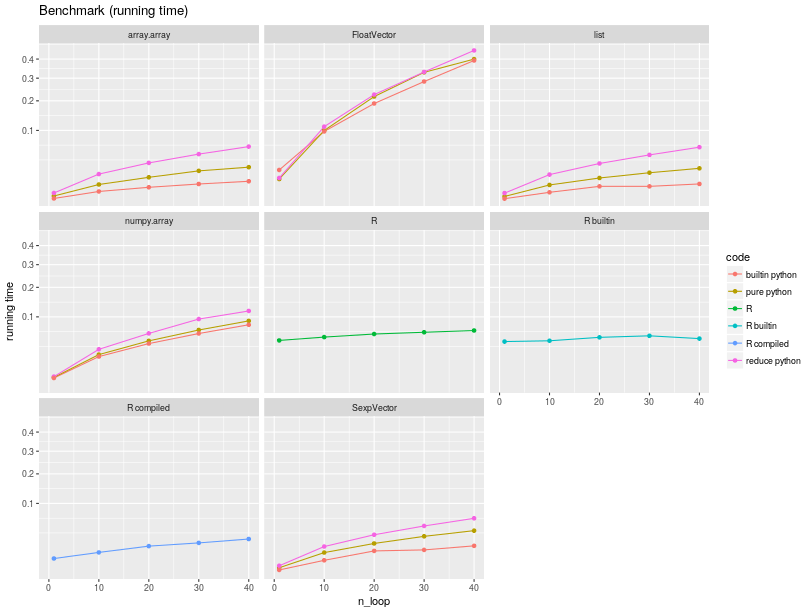
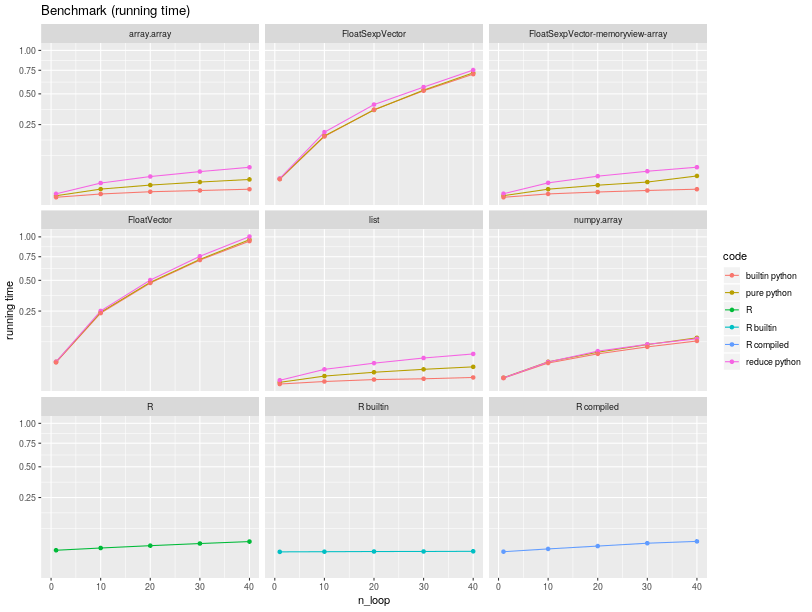
Update the doc about performances.

diff --git a/doc/latest/html/performances.html b/doc/latest/html/performances.html
@@ -82,16 +82,36 @@ the fastest, most memory efficient, and most versatile Python-to-R bridge.</p>
 </div>
 <div class="section" id="low-level-interface">
 <h3>Low-level interface<a class="headerlink" href="#low-level-interface" title="Permalink to this headline">¶</a></h3>
-<p>The high-level layer <a class="reference internal" href="robjects.html#module-rpy2.robjects" title="rpy2.robjects: High-level interface with R (Unix, Windows)"><code class="xref py py-mod docutils literal notranslate"><span class="pre">rpy2.robjects</span></code></a> brings a lot of convenience, such a class mappings and interfaces, but obviously
-with a cost in term of performances. This cost is neglibible for common usage, but compute-intensive programms traversing the
-Python-to-R bridge way and back a very large number of time will notice it.</p>
-<p>For those cases, the <a class="reference internal" href="rinterface.html#module-rpy2.rinterface" title="rpy2.rinterface: Low-level interface with R (Unix, Windows)"><code class="xref py py-mod docutils literal notranslate"><span class="pre">rpy2.rinterface</span></code></a> low-level layer gets the programmer closer to R’s C-level interface, bring rpy2
-faster than R code itself, as shown below.</p>
+<p>The high-level layer <a class="reference internal" href="robjects.html#module-rpy2.robjects" title="rpy2.robjects: High-level interface with R (Unix, Windows)"><code class="xref py py-mod docutils literal notranslate"><span class="pre">rpy2.robjects</span></code></a> brings a lot of convenience, such a class
+mappings and interfaces, but obviously with a cost in term of performances. This cost is
+believe to be neglibible for common use cases (calling calling complex R code in libraries
+with no Python alternative or with comparable level of maturity), but compute-intensive
+programms traversing the Python-to-R bridge way and back a very large number of time will
+notice it.</p>
+<p>The <a class="reference internal" href="rinterface.html#module-rpy2.rinterface" title="rpy2.rinterface: Low-level interface with R (Unix, Windows)"><code class="xref py py-mod docutils literal notranslate"><span class="pre">rpy2.rinterface</span></code></a> low-level layer gets the programmer closer to R’s C-level
+interface, but when interfacing with R using <code class="xref py py-mod docutils literal notranslate"><span class="pre">cffi</span></code>’s ABI mode this does not translate
+into immediate noticeable speed gains. However, having code for the <a class="reference internal" href="rinterface.html#module-rpy2.rinterface" title="rpy2.rinterface: Low-level interface with R (Unix, Windows)"><code class="xref py py-mod docutils literal notranslate"><span class="pre">rpy2.rinterface</span></code></a>
+interface means that translation to C is relatively easy to achieve, and <code class="xref py py-mod docutils literal notranslate"><span class="pre">cffi</span></code>’s API
+mode can be then used.</p>
+<div class="admonition note">
+<p class="first admonition-title">Note</p>
+<p>General speed improvement strategies for Python will apply. For example <code class="xref py py-mod docutils literal notranslate"><span class="pre">cython</span></code>
+can compile to C Python-like code with type declarations or pypy can be used as
+an alternative implemenation of Python.</p>
+<p class="last">When the compute-intensive shuttling across Python and R is mainly about Python accessing
+data in R data structures, a memoryview (available as
+<code class="xref py py-meth docutils literal notranslate"><span class="pre">rpy2.rinterface.BoolSexpVector.memoryview()</span></code>,
+<code class="xref py py-meth docutils literal notranslate"><span class="pre">rpy2.rinterface.FloatSexpVector.memoryview()</span></code>, or
+<code class="xref py py-meth docutils literal notranslate"><span class="pre">rpy2.rinterface.IntSexpVector.memoryview()</span></code>) will provide access to the memory
+region in the embedded R where data for an array is stored. The numpy array interface
+as <code class="xref py py-attr docutils literal notranslate"><span class="pre">rpy2.rinterface.NumpyArrayInterface.__array_interface__</span></code> for the same
+vector objects.</p>
 </div>
 </div>
-<div class="section" id="a-simple-benchmark">
-<h2>A simple benchmark<a class="headerlink" href="#a-simple-benchmark" title="Permalink to this headline">¶</a></h2>
-<p>As a simple benchmark, we took a function that would sum
+</div>
+<div class="section" id="a-naive-benchmark">
+<h2>A naive benchmark<a class="headerlink" href="#a-naive-benchmark" title="Permalink to this headline">¶</a></h2>
+<p>As a naive benchmark, we took a function that would sum
 up all elements in a numerical vector.</p>
 <p>In pure R, the code is like:</p>
 <div class="highlight-r notranslate"><div class="highlight"><pre><span></span><span class="kr">function</span><span class="p">(</span>x<span class="p">)</span>
@@ -111,7 +131,8 @@ up all elements in a numerical vector.</p>
     <span class="k">return</span> <span class="n">total</span>
 </pre></div>
 </div>
-<p>R has obviously a vectorized function <cite>sum()</cite> calling underlying C code, but the purpose of the benchmark
+<p>R has obviously a vectorized function <cite>sum()</cite> calling underlying C code, but the purpose of
+the benchmark
 is to measure the running time of pure R code.</p>
 <p>We ran this function over different types of sequences (of the same length)</p>
 <div class="highlight-default notranslate"><div class="highlight"><pre><span></span>    <span class="n">n</span> <span class="o">=</span> <span class="mi">20000</span>
@@ -126,15 +147,21 @@ is to measure the running time of pure R code.</p>
     <span class="k">elif</span> <span class="n">kind</span> <span class="o">==</span> <span class="s2">&quot;FloatVector&quot;</span><span class="p">:</span>
         <span class="kn">import</span> <span class="nn">rpy2.robjects</span> <span class="k">as</span> <span class="nn">module</span>
         <span class="n">res</span> <span class="o">=</span> <span class="n">module</span><span class="o">.</span><span class="n">FloatVector</span><span class="p">(</span><span class="n">x_list</span><span class="p">)</span>
-    <span class="k">elif</span> <span class="n">kind</span> <span class="o">==</span> <span class="s2">&quot;SexpVector&quot;</span><span class="p">:</span>
+    <span class="k">elif</span> <span class="n">kind</span> <span class="o">==</span> <span class="s2">&quot;FloatSexpVector&quot;</span><span class="p">:</span>
         <span class="kn">import</span> <span class="nn">rpy2.rinterface</span> <span class="k">as</span> <span class="nn">module</span>
         <span class="n">module</span><span class="o">.</span><span class="n">initr</span><span class="p">()</span>
-        <span class="n">res</span> <span class="o">=</span> <span class="n">module</span><span class="o">.</span><span class="n">IntSexpVector</span><span class="p">(</span><span class="n">x_list</span><span class="p">)</span>
+        <span class="n">res</span> <span class="o">=</span> <span class="n">module</span><span class="o">.</span><span class="n">FloatSexpVector</span><span class="p">(</span><span class="n">x_list</span><span class="p">)</span>
+    <span class="k">elif</span> <span class="n">kind</span> <span class="o">==</span> <span class="s2">&quot;FloatSexpVector-memoryview-array&quot;</span><span class="p">:</span>
+        <span class="kn">import</span> <span class="nn">rpy2.rinterface</span> <span class="k">as</span> <span class="nn">module</span>
+        <span class="n">module</span><span class="o">.</span><span class="n">initr</span><span class="p">()</span>
+        <span class="n">tmp</span> <span class="o">=</span> <span class="n">module</span><span class="o">.</span><span class="n">FloatSexpVector</span><span class="p">(</span><span class="n">x_list</span><span class="p">)</span>
+        <span class="n">mv</span> <span class="o">=</span> <span class="n">tmp</span><span class="o">.</span><span class="n">memoryview</span><span class="p">()</span>
+        <span class="n">res</span> <span class="o">=</span> <span class="n">array</span><span class="o">.</span><span class="n">array</span><span class="p">(</span><span class="n">mv</span><span class="o">.</span><span class="n">format</span><span class="p">,</span> <span class="n">mv</span><span class="p">)</span>
     <span class="k">elif</span> <span class="n">kind</span> <span class="o">==</span> <span class="s2">&quot;list&quot;</span><span class="p">:</span>
         <span class="n">res</span> <span class="o">=</span> <span class="n">x_list</span>
     <span class="k">elif</span> <span class="n">kind</span> <span class="o">==</span> <span class="s2">&quot;R&quot;</span><span class="p">:</span>
         <span class="kn">import</span> <span class="nn">rpy2.robjects</span> <span class="k">as</span> <span class="nn">module</span>
-        <span class="n">res</span> <span class="o">=</span> <span class="n">module</span><span class="o">.</span><span class="n">rinterface</span><span class="o">.</span><span class="n">IntSexpVector</span><span class="p">(</span><span class="n">x_list</span><span class="p">)</span>
+        <span class="n">res</span> <span class="o">=</span> <span class="n">module</span><span class="o">.</span><span class="n">rinterface</span><span class="o">.</span><span class="n">FloatSexpVector</span><span class="p">(</span><span class="n">x_list</span><span class="p">)</span>
         <span class="n">module</span><span class="o">.</span><span class="n">globalenv</span><span class="p">[</span><span class="s1">&#39;x&#39;</span><span class="p">]</span> <span class="o">=</span> <span class="n">res</span>
         <span class="n">res</span> <span class="o">=</span> <span class="kc">None</span>
 </pre></div>
@@ -162,51 +189,59 @@ code runs.</p>
 <tbody valign="top">
 <tr class="row-even"><td>builtin python</td>
 <td>array.array</td>
-<td>2.17</td>
+<td>5.01</td>
+</tr>
+<tr class="row-odd"><td>builtin python</td>
+<td>FloatSexpVector</td>
+<td>0.03</td>
+</tr>
+<tr class="row-even"><td>builtin python</td>
+<td>FloatSexpVector-memoryview-array</td>
+<td>5.01</td>
 </tr>
 <tr class="row-odd"><td>builtin python</td>
 <td>FloatVector</td>
-<td>0.04</td>
+<td>0.02</td>
 </tr>
 <tr class="row-even"><td>builtin python</td>
 <td>list</td>
-<td>2.90</td>
+<td>7.71</td>
 </tr>
 <tr class="row-odd"><td>builtin python</td>
 <td>numpy.array</td>
 <td>0.23</td>
 </tr>
-<tr class="row-even"><td>builtin python</td>
-<td>SexpVector</td>
-<td>1.26</td>
-</tr>
-<tr class="row-odd"><td>pure python</td>
+<tr class="row-even"><td>pure python</td>
 <td>array.array</td>
-<td>0.74</td>
+<td>1.23</td>
+</tr>
+<tr class="row-odd"><td>pure python</td>
+<td>FloatSexpVector</td>
+<td>0.03</td>
 </tr>
 <tr class="row-even"><td>pure python</td>
+<td>FloatSexpVector-memoryview-array</td>
+<td>0.93</td>
+</tr>
+<tr class="row-odd"><td>pure python</td>
 <td>FloatVector</td>
-<td>0.04</td>
-</tr>
-<tr class="row-odd"><td>pure python</td>
-<td>list</td>
-<td>0.81</td>
+<td>0.02</td>
 </tr>
 <tr class="row-even"><td>pure python</td>
-<td>numpy.array</td>
-<td>0.20</td>
+<td>list</td>
+<td>1.36</td>
 </tr>
 <tr class="row-odd"><td>pure python</td>
-<td>SexpVector</td>
-<td>0.44</td>
+<td>numpy.array</td>
+<td>0.21</td>
 </tr>
 <tr class="row-even"><td>R builtin</td>
 <td>R builtin</td>
-<td>9.38</td>
+<td>20.98</td>
 </tr>
 <tr class="row-odd"><td>R compiled</td>
 <td>R compiled</td>
-<td>0.88</td>
+<td>0.85</td>
 </tr>
 <tr class="row-even"><td>R</td>
 <td>R</td>
@@ -214,23 +249,27 @@ code runs.</p>
 </tr>
 <tr class="row-odd"><td>reduce python</td>
 <td>array.array</td>
-<td>0.30</td>
+<td>0.46</td>
+</tr>
+<tr class="row-even"><td>reduce python</td>
+<td>FloatSexpVector</td>
+<td>0.03</td>
+</tr>
+<tr class="row-odd"><td>reduce python</td>
+<td>FloatSexpVector-memoryview-array</td>
+<td>0.46</td>
 </tr>
 <tr class="row-even"><td>reduce python</td>
 <td>FloatVector</td>
-<td>0.04</td>
+<td>0.02</td>
 </tr>
 <tr class="row-odd"><td>reduce python</td>
 <td>list</td>
-<td>0.31</td>
+<td>0.47</td>
 </tr>
 <tr class="row-even"><td>reduce python</td>
 <td>numpy.array</td>
-<td>0.18</td>
-</tr>
-<tr class="row-odd"><td>reduce python</td>
-<td>SexpVector</td>
-<td>0.29</td>
+<td>0.21</td>
 </tr>
 </tbody>
 </table>
@@ -279,7 +318,7 @@ calling C-compiled code, and to compare their performances.</p>
 <li><a class="reference internal" href="#low-level-interface">Low-level interface</a></li>
 </ul>
 </li>
-<li><a class="reference internal" href="#a-simple-benchmark">A simple benchmark</a></li>
+<li><a class="reference internal" href="#a-naive-benchmark">A naive benchmark</a></li>
 </ul>
 </li>
 </ul>
